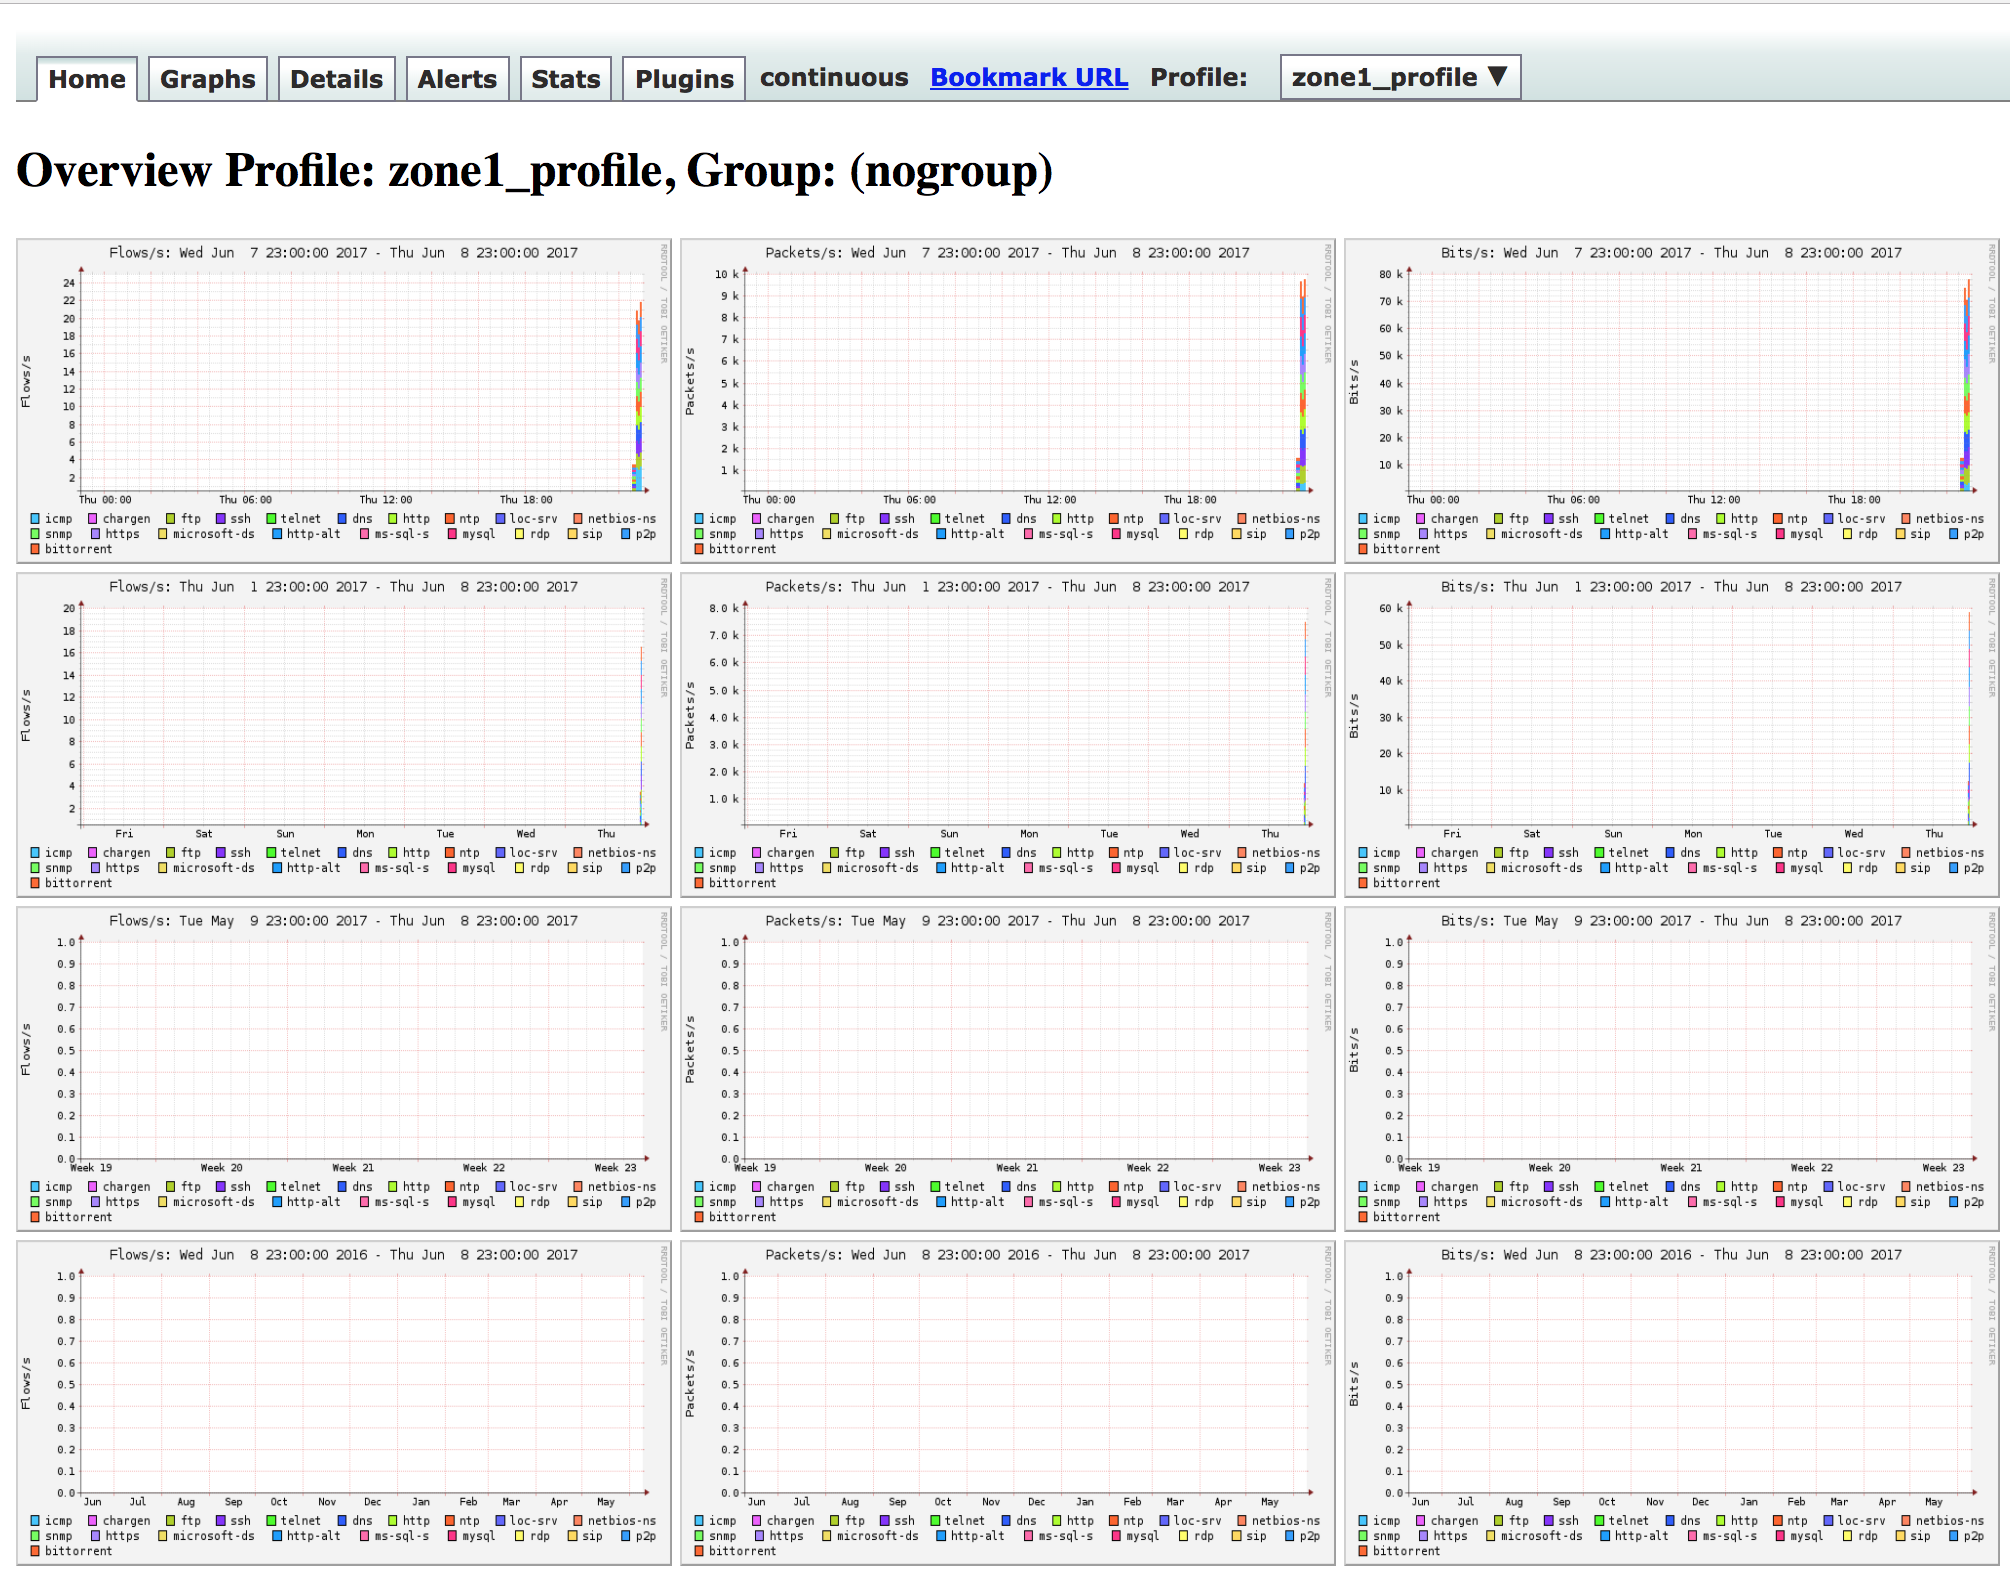
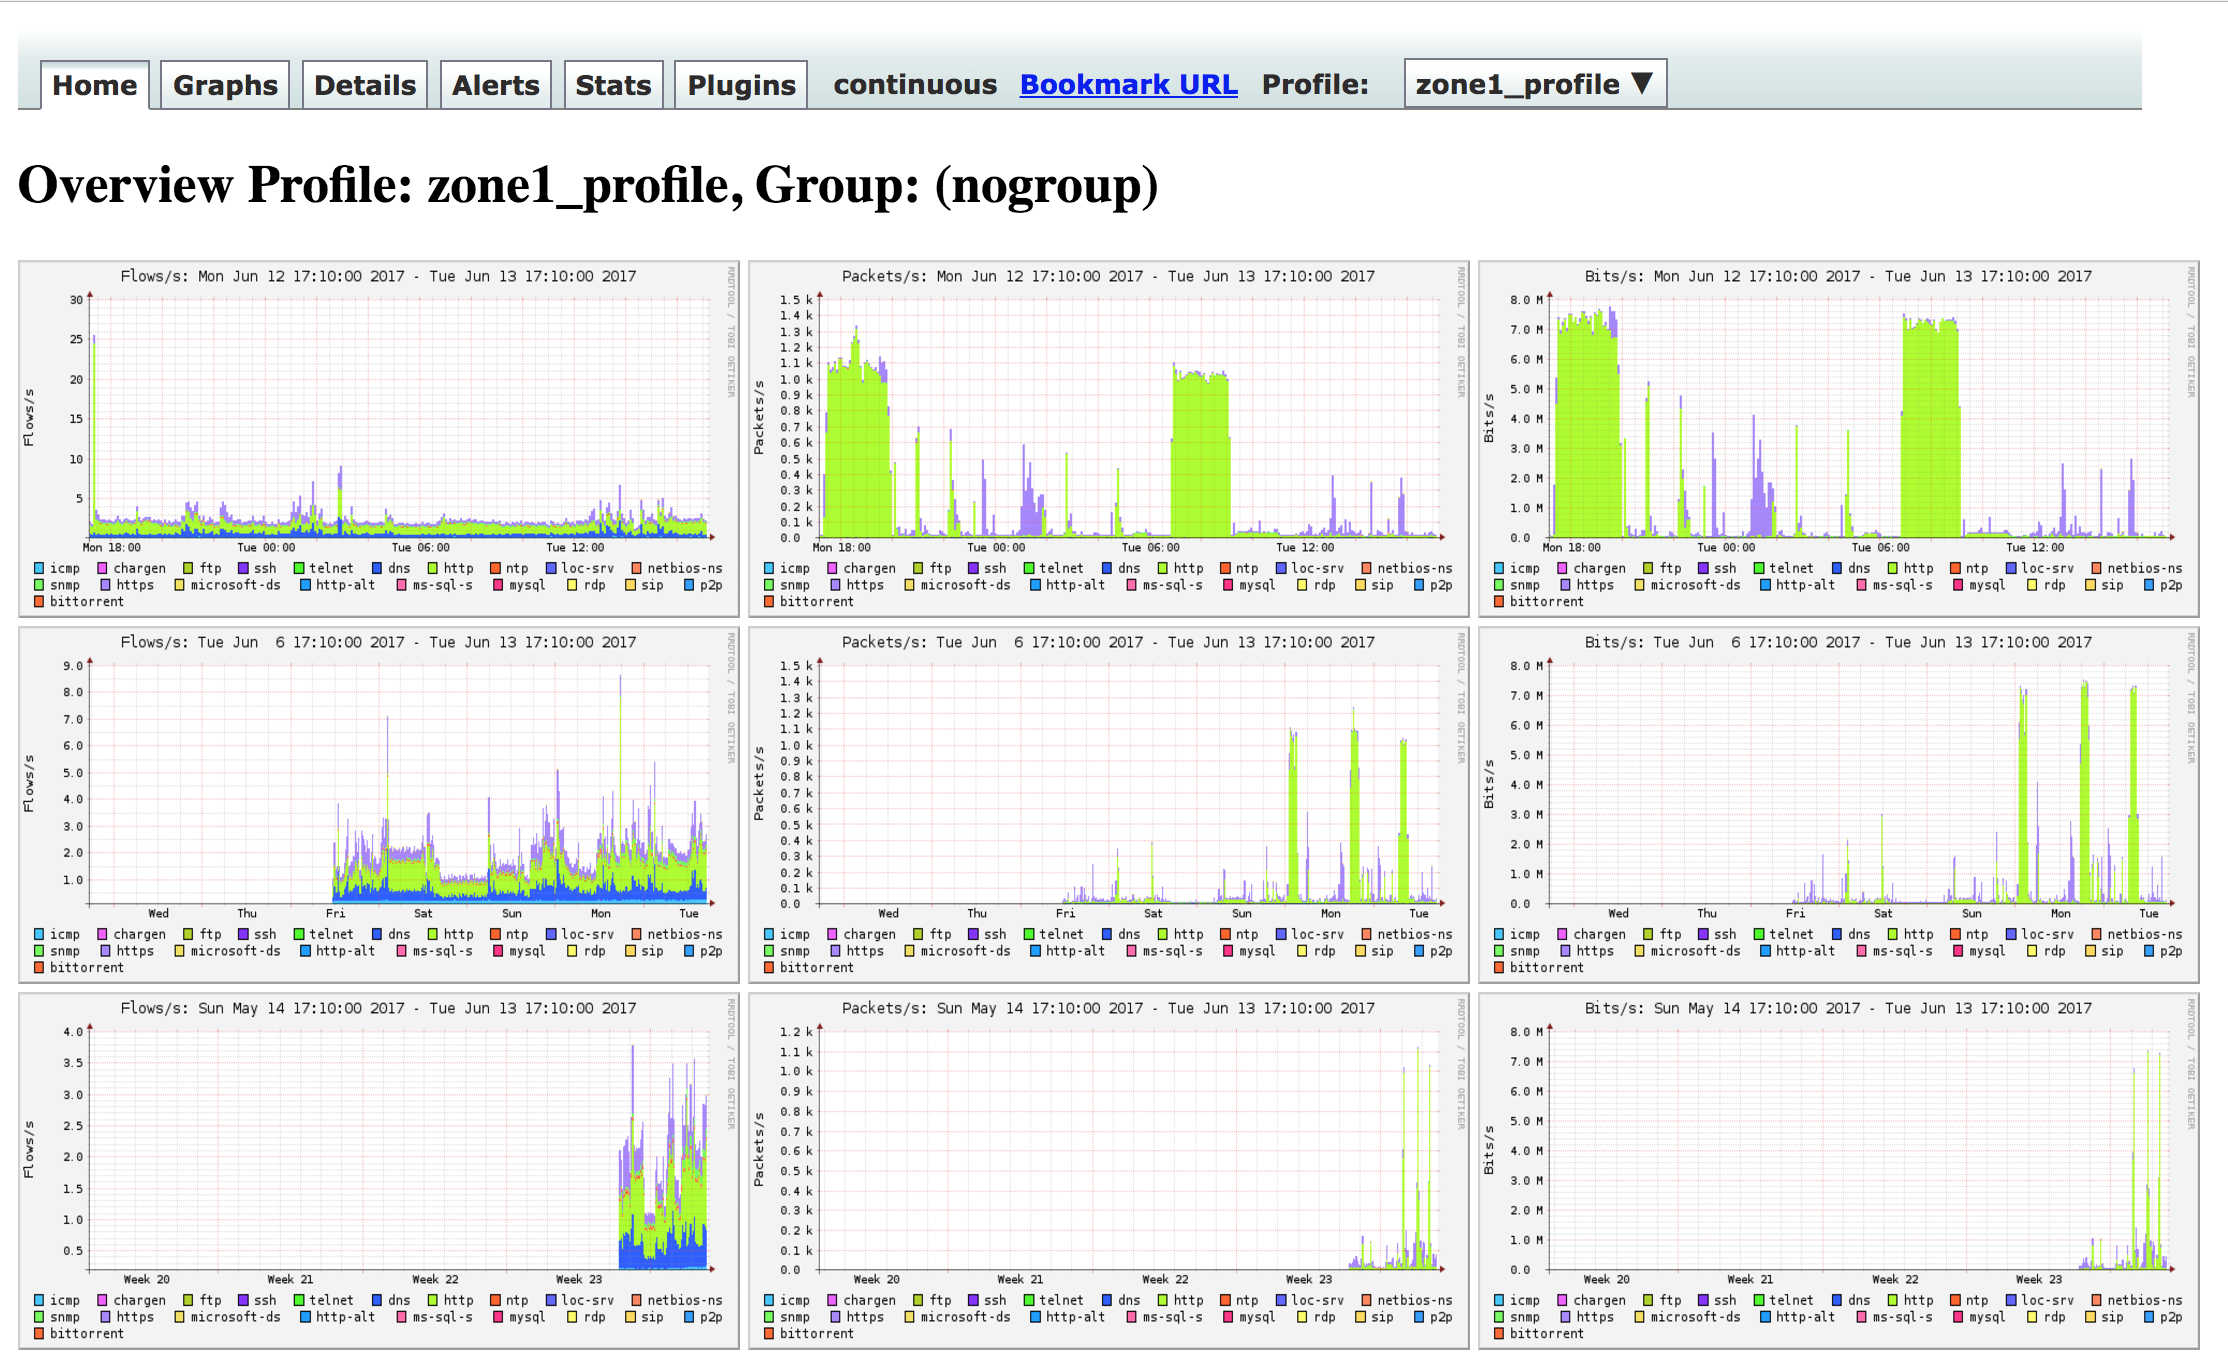
Update home page PNG file, editorial tweaks to README

Changed region(s): [[0.0, 0.031, 1.0, 1.0], [0.0, 0.8375, 0.0308, 0.8685]]

diff --git a/README.md b/README.md
@@ -34,27 +34,35 @@ This can take many minutes, since many files need to be downloaded and installed
     $ cd nfsen-dockerized
     $ docker build -t nfsen-dockerized .
     ```
-3. Run the container. It will print a container ID as confirmation:
+3. Run the container.
 
     ```
 	$ docker run -p 81:80 -p 2055:2055/udp -p 4739:4739/udp -p 6343:6343/udp -p 9996:9996/udp  -i -t --name nfsen_img nfsen-dockerized
[1 lines of base64/hex data omitted]
+	
+    ```
+    
+    If the Docker startup is successful, it will print a large amount of debugging information, which culminates with:
+    
+    ```
+    'Supervisord is running as root and it is searching '
+2017-06-09 00:20:53,001 CRIT Supervisor running as root (no user in config file)
+2017-06-09 00:20:53,037 INFO supervisord started with pid 131
+2017-06-09 00:20:54,048 INFO spawned: 'apache2' with pid 134
+2017-06-09 00:20:55,980 INFO success: apache2 entered RUNNING state, process has stayed up for > than 1 seconds (startsecs)
     ```
 
-5. Point your web browser to [http://localhost:81](http://localhost:81/) You will see the nfsen home page (below). Notes:
+5. Point your web browser at [http://localhost:81](http://localhost:81/) You will see the nfsen home page (below). Notes:
 
    * The `docker run...` command above maps external port 81 to the docker container's web port 80. Change it to use a different external port if needed.
    * If you installed the Docker container on a separate computer, use the IP address of the computer where you're running wvnetflow.
    * The page will display a warning about "no live data." 
+   * Select *zone1_profile* from **Profile:** (in the header dropdown), to display the nfsen home page (below).
 
 	<img src="https://github.com/richb-hanover/nfsen-dockerized/raw/master/docs/nfsen_home.png" width="500" />
 
 6. Configure your router(s) to export flows to this collector, or generate mock flow data. See the Flow_Export.md document for more information.
 
-7. Select *zone1_profile* from **Profile:** (in the header dropdown).
-This will eventually show live data.
-
-8. **Wait...** It can take up to five minutes before the flow data has been collected and displayed. After that, refreshing the browser shows the data collected at the right edge of any of the plots.
+8. **Wait...** It can take up to five minutes before the flow data has been collected and displayed. Continue to click the "Home" tab to refresh the page. Ultimately,  the charts show the data collected at the right edge of any of the plots.
 
 ### QuickStart - www access
 
